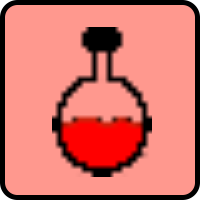
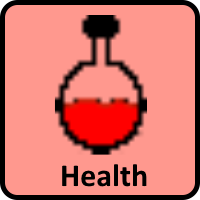
Fixed potion inventory images so that they have potion names

Changed region(s): [[0.24, 0.06, 0.78, 0.93]]

diff --git a/Game.py b/Game.py
@@ -1558,18 +1558,18 @@ while True:
             
     if views.top() == "potionsIn":
             if viewChanged:
-                offsetx = 35
-                offsety = -60
+                offsetx = 30
+                offsety = -50
                 options = [InventoryChoice([900/3, 275], views.top(), "fullHeal"),
                            InventoryChoice([2*900/3, 275], views.top(), "halfHeal"),
                            InventoryChoice([900/4, 450], views.top(), "health"),
                            InventoryChoice([900/2, 450], views.top(), "revive"),
                            InventoryChoice([3*900/4, 450], views.top(), "speed")]
-                amounts = [Text2("", [900/3 + offsetx + 25, 275 + offsety], 24, "Black"),
-                           Text2("", [2*900/3 + offsetx + 25, 275 + offsety], 24, "Black"),
-                           Text2("", [900/4 + offsetx + 25, 450 + offsety], 24, "Black"),
-                           Text2("", [900/2 + offsetx + 25, 450 + offsety], 24, "Black"),
-                           Text2("", [3*900/4 + offsetx + 25, 450 + offsety], 24, "Black")]
+                amounts = [Text2("", [900/3 + offsetx + 25, 275 + offsety], 36, "Black"),
+                           Text2("", [2*900/3 + offsetx + 25, 275 + offsety], 36, "Black"),
+                           Text2("", [900/4 + offsetx + 25, 450 + offsety], 36, "Black"),
+                           Text2("", [900/2 + offsetx + 25, 450 + offsety], 36, "Black"),
+                           Text2("", [3*900/4 + offsetx + 25, 450 + offsety], 36, "Black")]
                 viewChanged = False
                            
             for event in pygame.event.get():
